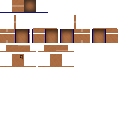
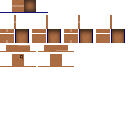
Worked a little on the Model and started a Content tip renderer.

Changed region(s): [[0.2188, 0.0938, 1.0, 0.3438], [0.0938, 0.2188, 0.125, 0.3438]]

diff --git a/src/minecraft/ml/boxes/client/ContentTipRenderer.java b/src/minecraft/ml/boxes/client/ContentTipRenderer.java
@@ -1,0 +1,73 @@
+package ml.boxes.client;
+
+import java.util.EnumSet;
+
+import net.minecraft.client.Minecraft;
+import net.minecraft.client.gui.ScaledResolution;
+import net.minecraft.client.gui.inventory.GuiContainer;
+import net.minecraft.inventory.Slot;
+
+import org.lwjgl.input.Mouse;
+
+import cpw.mods.fml.client.FMLClientHandler;
+import cpw.mods.fml.common.ITickHandler;
+import cpw.mods.fml.common.ObfuscationReflectionHelper;
+import cpw.mods.fml.common.TickType;
+import cpw.mods.fml.relauncher.Side;
+import cpw.mods.fml.relauncher.SideOnly;
+
+@SideOnly(Side.CLIENT)
+public class ContentTipRenderer implements ITickHandler {
+
+	@Override
+	public void tickStart(EnumSet<TickType> type, Object... tickData) {
+		// TODO Auto-generated method stub
+
+	}
+
+	@Override
+	public void tickEnd(EnumSet<TickType> type, Object... tickData) {
+		if (type.contains(TickType.RENDER)){
+			renderContentTip();
+		}
+	}
+	
+	private void renderContentTip(){
+		Minecraft mc = FMLClientHandler.instance().getClient();
+		if (mc.currentScreen instanceof GuiContainer){
+			GuiContainer asGuiContainer = (GuiContainer)mc.currentScreen;
+			
+			int guiXSize = ObfuscationReflectionHelper.getPrivateValue(GuiContainer.class, (GuiContainer)mc.currentScreen, 1);
+			int guiYSize = ObfuscationReflectionHelper.getPrivateValue(GuiContainer.class, (GuiContainer)mc.currentScreen, 2);
+			
+			ScaledResolution var13 = new ScaledResolution(mc.gameSettings, mc.displayWidth, mc.displayHeight);
+            int var14 = var13.getScaledWidth();
+            int var15 = var13.getScaledHeight();
+            int adjMouseX = Mouse.getX() * var14 / mc.displayWidth;
+            int adjMousY = var15 - Mouse.getY() * var15 / mc.displayHeight - 1;
+            
+            int guiLeft = (asGuiContainer.width - guiXSize) / 2;
+            int guiTop = (asGuiContainer.height - guiYSize) / 2;
+            
+            for (Object slt : asGuiContainer.inventorySlots.inventorySlots){
+            	Slot asSlot = (Slot)slt;
+            	
+            }
+		}
+	}
+
+	private Boolean pointInRect(int pntX, int pntY, int rectX, int rectY, int rectW, int rectH){
+		return (pntX >= rectX && pntY >= rectY && pntX <= rectX+rectW && pntY <= rectY + rectH);
+	}
+	
+	@Override
+	public EnumSet<TickType> ticks() {
+		return EnumSet.of(TickType.RENDER);
+	}
+
+	@Override
+	public String getLabel() {
+		return "BoxesContentTipRenderer";
+	}
+
+}

diff --git a/src/minecraft/ml/boxes/client/ModelBox.java b/src/minecraft/ml/boxes/client/ModelBox.java
@@ -13,10 +13,7 @@ public class ModelBox extends ModelBase {
 	public ModelRenderer flap2; //X-
 	public ModelRenderer flap3; //Z-
 	public ModelRenderer flap4; //Z+
-	public ModelRenderer sidexm;
-	public ModelRenderer sidexp;
-	public ModelRenderer sidezm;
-	public ModelRenderer sidezp;
+	public ModelRenderer[] sides = new ModelRenderer[4];
 	
 	public ModelBox() {
 		bottom = new ModelRenderer(this, 0, 0).setTextureSize(texX, texY);
@@ -48,31 +45,16 @@ public class ModelBox extends ModelBase {
 		flap4.rotationPointY = 13.4F;
 		flap4.rotationPointZ = 2F;
 
+		for (int i=0; i<4; i++){
+			ModelRenderer side = new ModelRenderer(this, i*32, 15).setTextureSize(texX, texY);
+			side.addBox(-7F, 0F, -7F, 1, 14, 14);
+			side.rotationPointX = 8F;
+			side.rotationPointY = 0F;
+			side.rotationPointZ = 8F;
+			side.rotateAngleY = (float)(i*(Math.PI/2));
+			sides[i] = side;
+		}
 		
-		
-		sidexm = new ModelRenderer(this, 0, 15).setTextureSize(texX, texY);
-		sidexm.addBox(0F, 0F, 0F, 1, 14, 14);
-		sidexm.rotationPointX = 1F;
-		sidexm.rotationPointY = 0F;
-		sidexm.rotationPointZ = 1F;
-
-		sidezm = new ModelRenderer(this, 32, 28).setTextureSize(texX, texY);
-		sidezm.addBox(0F, 0F, 0F, 12, 14, 1);
-		sidezm.rotationPointX = 2F;
-		sidezm.rotationPointY = 0F;
-		sidezm.rotationPointZ = 1F;
-		
-		sidexp = new ModelRenderer(this, 60, 15).setTextureSize(texX, texY);
-		sidexp.addBox(0F, 0F, 0F, 1, 14, 14);
-		sidexp.rotationPointX = 14F;
-		sidexp.rotationPointY = 0F;
-		sidexp.rotationPointZ = 1F;
-
-		sidezp = new ModelRenderer(this, 92, 28).setTextureSize(texX, texY);
-		sidezp.addBox(0F, 0F, 0F, 12, 14, 1);
-		sidezp.rotationPointX = 2F;
-		sidezp.rotationPointY = 0F;
-		sidezp.rotationPointZ = 14F;
 	}
 	
 	public void renderAll(){
@@ -81,9 +63,10 @@ public class ModelBox extends ModelBase {
 		flap2.render(0.0625F);
 		flap3.render(0.0625F);
 		flap4.render(0.0625F);
-		sidexm.render(0.0625F);
-		sidexp.render(0.0625F);
-		sidezm.render(0.0625F);
-		sidezp.render(0.0625F);
+		
+		for (ModelRenderer mr : sides){
+			mr.render(0.0625F);
+		}
+		
 	}
 }
